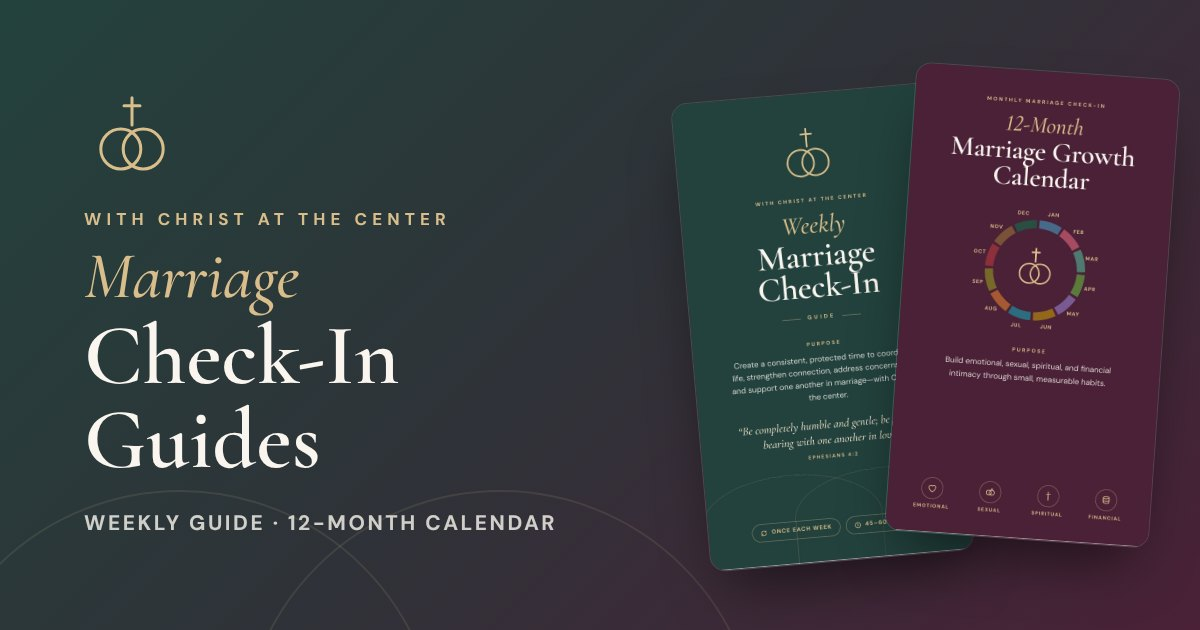
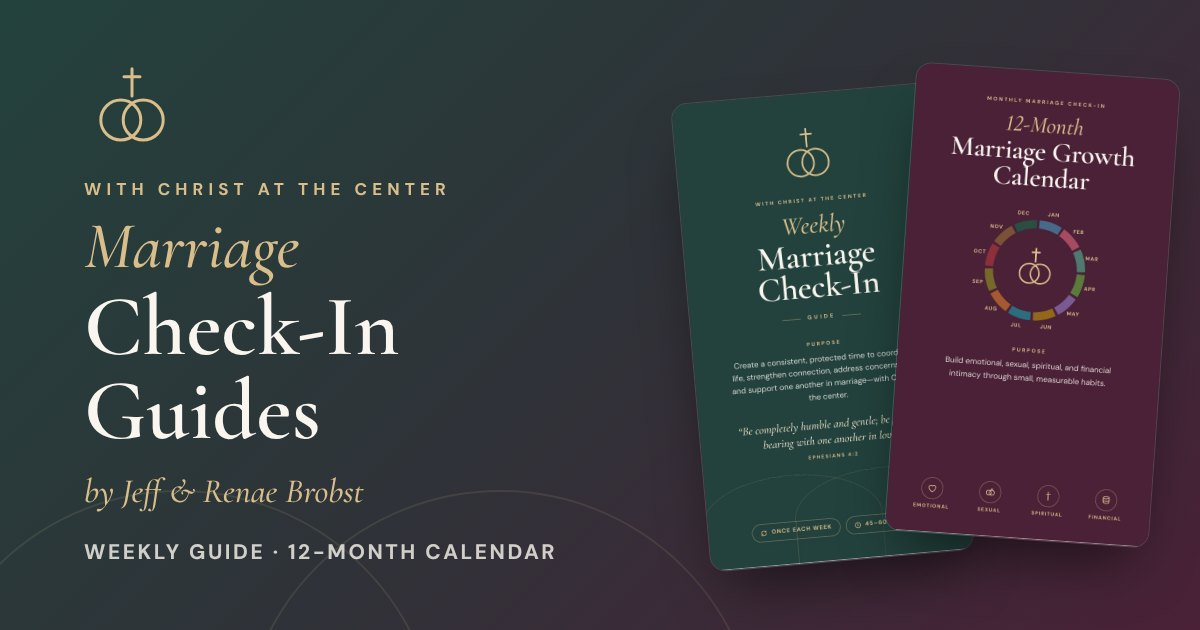
Add byline and device/print wording

Changed region(s): [[0.0617, 0.1206, 0.4625, 0.9048]]

diff --git a/index.html b/index.html
@@ -4,12 +4,12 @@
 <meta charset="utf-8">
 <meta name="viewport" content="width=device-width, initial-scale=1, viewport-fit=cover">
 <title>Marriage Check-In Guides</title>
-<meta name="description" content="Download the Weekly Marriage Check-In Guide and the 12-Month Marriage Growth Calendar.">
+<meta name="description" content="By Jeff &amp; Renae Brobst. Download the Weekly Marriage Check-In Guide and the 12-Month Marriage Growth Calendar for your phone, tablet, or computer, or print them.">
 <meta name="robots" content="noindex">
 <meta name="theme-color" content="#2f3238">
 <meta property="og:type" content="website">
 <meta property="og:title" content="Marriage Check-In Guides">
-<meta property="og:description" content="Weekly Check-In Guide + 12-Month Growth Calendar. Tap to download both PDFs.">
+<meta property="og:description" content="By Jeff &amp; Renae Brobst. Weekly guide + 12-month calendar for your phone, tablet, laptop, or print.">
 <meta property="og:url" content="https://foundationsai.github.io/marriage-check-in/">
 <meta property="og:image" content="https://foundationsai.github.io/marriage-check-in/img/share.jpg">
 <meta property="og:image:width" content="1200">
@@ -35,7 +35,7 @@ a { color: inherit; }
 
 .hero { position: relative; overflow: hidden; color: var(--paper); text-align: center;
         background: linear-gradient(135deg, var(--green) 0%, #2f3238 50%, var(--wine) 100%);
-        padding: calc(52px + env(safe-area-inset-top)) 20px 120px; }
+        padding: calc(48px + env(safe-area-inset-top)) 20px 118px; }
 .hero::before, .hero::after { content: ''; position: absolute; width: 360px; height: 360px; border-radius: 50%;
         border: 1.5px solid rgba(217,190,140,.14); bottom: -250px; }
 .hero::before { left: calc(50% - 290px); }
@@ -44,7 +44,16 @@ a { color: inherit; }
 .kicker { font-size: 11px; font-weight: 700; letter-spacing: .3em; text-transform: uppercase; color: var(--gold-light); margin-top: 20px; }
 h1 { font-family: 'Cormorant', serif; font-weight: 600; font-size: clamp(40px, 11vw, 58px); line-height: 1; margin-top: 12px; letter-spacing: -.01em; }
 h1 em { font-style: italic; font-weight: 500; color: var(--gold-light); display: block; font-size: .78em; margin-bottom: 4px; }
-.sub { margin: 14px auto 0; max-width: 30ch; font-size: 16px; color: rgba(250,246,239,.85); }
+.byline { font-family: 'Cormorant', serif; font-style: italic; font-weight: 500; font-size: 21px; color: var(--gold-light); margin-top: 14px;
+          display: flex; align-items: center; justify-content: center; gap: 12px; }
+.byline::before, .byline::after { content: ''; width: 28px; height: 1px; background: var(--gold-light); opacity: .55; }
+.sub { margin: 14px auto 0; max-width: 32ch; font-size: 16px; color: rgba(250,246,239,.88); text-wrap: balance; }
+.uses { display: flex; flex-wrap: wrap; justify-content: center; gap: 6px; margin: 16px auto 0; max-width: 420px; padding: 0; list-style: none; }
+.uses li { display: inline-flex; align-items: center; gap: 5px; font-size: 10.5px; font-weight: 700; letter-spacing: .1em; text-transform: uppercase;
+           color: var(--gold-light); border: 1px solid rgba(217,190,140,.4); border-radius: 999px; padding: 5px 10px 5px 8px; }
+@media (max-width: 379px) { .uses { gap: 4px; } .uses li { font-size: 9.5px; letter-spacing: .06em; padding: 5px 8px 5px 7px; gap: 4px; } .uses svg { width: 13px; height: 13px; } }
+@media (min-width: 480px) { .uses { gap: 8px; } .uses li { font-size: 11.5px; letter-spacing: .12em; padding: 6px 12px 6px 10px; } }
+.uses svg { flex: none; }
 
 main { max-width: 860px; margin: -84px auto 0; padding: 0 16px calc(40px + env(safe-area-inset-bottom)); position: relative; }
 .cards { display: grid; gap: 16px; }
@@ -87,7 +96,14 @@ footer svg { display: block; margin: 0 auto; }
   </svg>
   <div class="kicker">With Christ at the center</div>
   <h1><em>Marriage</em>Check-In Guides</h1>
-  <p class="sub">Download both PDFs below to keep on your phone or print.</p>
+  <p class="byline">by Jeff &amp; Renae Brobst</p>
+  <p class="sub">Use them on your phone, tablet, or computer, or print them out. Download both below.</p>
+  <ul class="uses" aria-label="Works on">
+    <li><svg width="15" height="15" viewBox="0 0 24 24" fill="none" stroke="currentColor" stroke-width="1.9" stroke-linecap="round" stroke-linejoin="round" aria-hidden="true"><rect x="7" y="2.5" width="10" height="19" rx="2.2"/><path d="M11 18.5h2"/></svg>Phone</li>
+    <li><svg width="15" height="15" viewBox="0 0 24 24" fill="none" stroke="currentColor" stroke-width="1.9" stroke-linecap="round" stroke-linejoin="round" aria-hidden="true"><rect x="4.5" y="2.5" width="15" height="19" rx="2.2"/><path d="M11 18.5h2"/></svg>Tablet</li>
+    <li><svg width="15" height="15" viewBox="0 0 24 24" fill="none" stroke="currentColor" stroke-width="1.9" stroke-linecap="round" stroke-linejoin="round" aria-hidden="true"><rect x="4.5" y="5" width="15" height="10.5" rx="1.6"/><path d="M2.5 19h19"/></svg>Laptop</li>
+    <li><svg width="15" height="15" viewBox="0 0 24 24" fill="none" stroke="currentColor" stroke-width="1.9" stroke-linecap="round" stroke-linejoin="round" aria-hidden="true"><path d="M7 8.5V3.5h10v5"/><rect x="3.5" y="8.5" width="17" height="8" rx="1.8"/><path d="M7 14h10v6.5H7z"/></svg>Print</li>
+  </ul>
 </header>
 
 <main>
@@ -123,7 +139,7 @@ footer svg { display: block; margin: 0 auto; }
 
   <div class="tip">
     <svg width="20" height="20" viewBox="0 0 24 24" fill="none" stroke="currentColor" stroke-width="1.9" stroke-linecap="round" stroke-linejoin="round" aria-hidden="true"><path d="M15 4.8l4.2 4.2L9.4 18.8l-4.9.7.7-4.9z"/><path d="M13 6.8l4.2 4.2"/></svg>
-    <span><b>Fill-in pages:</b> the weekly template and monthly scorecard can be typed on and checked off. Save the PDF to Files (iPhone) or open it in a PDF app (Android) to fill it in.</span>
+    <span><b>Fill-in pages:</b> the weekly template and monthly scorecard can be typed on and checked off right on your phone, tablet, or computer (open the PDF in Files, Books, or any PDF app). Or print them and fill them in by hand.</span>
   </div>
 
   <footer>
